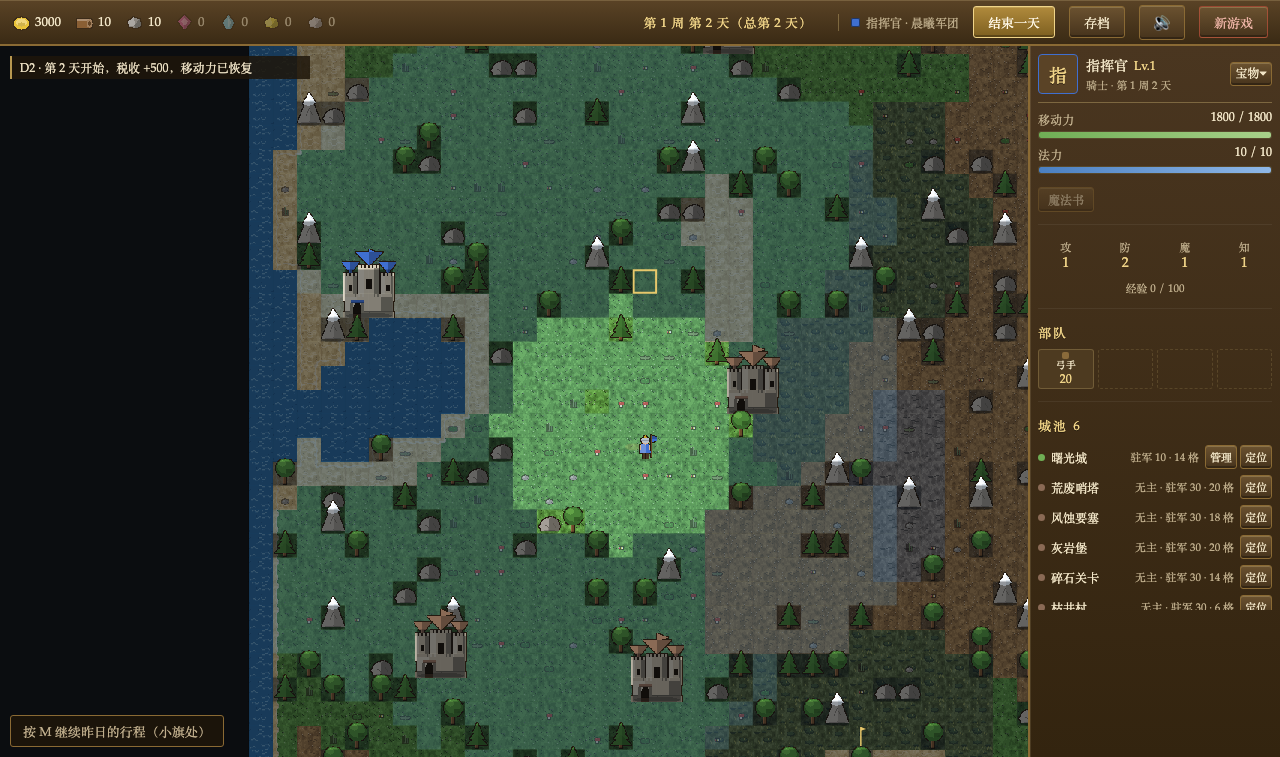
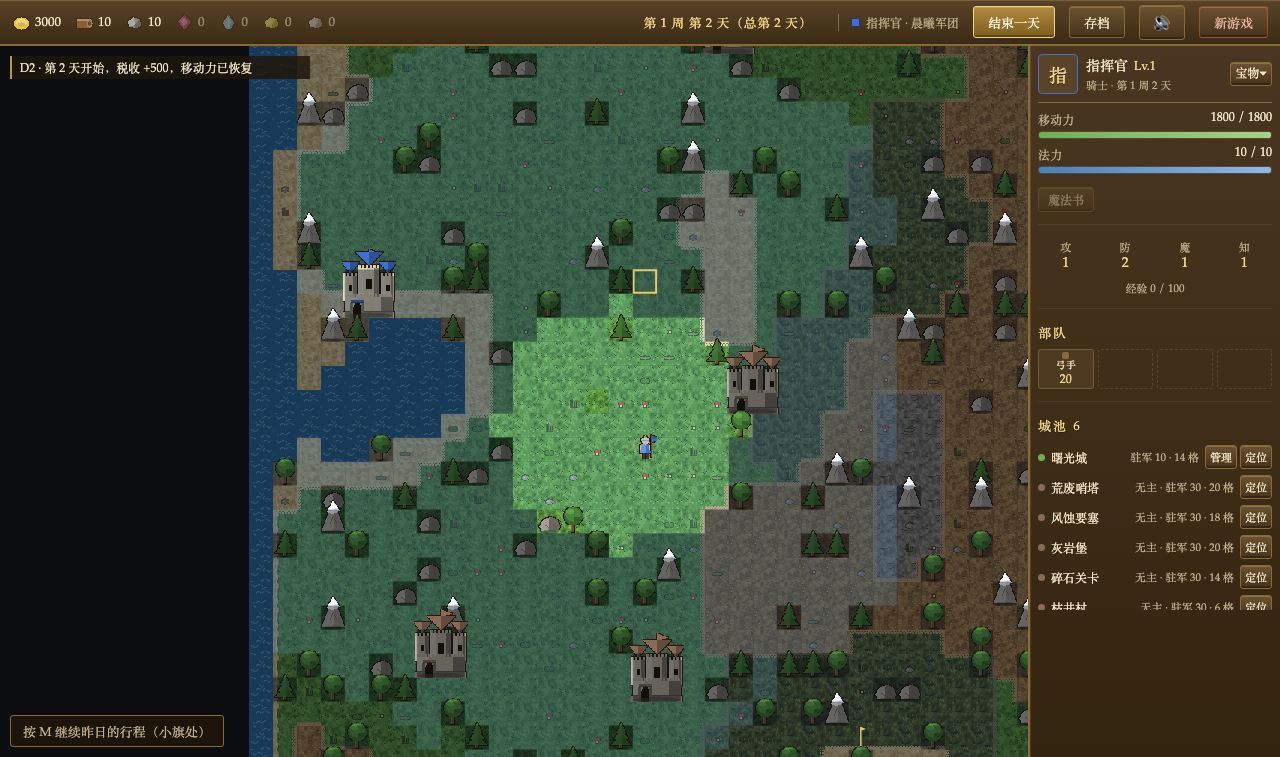
P1.2 水面碎光 + 地形边缘抖动过渡
两处地形观感升级，全在地形层/水面通道，业务零改动：

1) 地形边缘混合（terrainLayer 烘焙时画）
   不同地形相邻处原来是生硬的棋盘格直边。现在高优先级地形向低优先级
   "漫"一条 6px 深的过渡带：Bayer 4×4 矩阵控制密度（越深越稀），
   叠坐标哈希抖动打散纱窗感，单边绘制（只高漫低）避免两边互画。
   优先级：雪 > 沙 > 土 > 岩 > 沼 > 草，水面不参与（有岸线精灵）。
   性能：一条边的像素攒进同一个 Path2D 一次 fill，避免巨型图开局
   百万次 fillRect。

2) 水面氛围
   - 翻页动画 520ms → 260ms 一帧，跳帧感减半。
   - 碎光高光带：一条沿对角线扫过全图的正弦波，波峰经过的格子
     点亮 2px 高光（波连续移动，每帧只画可见水格的 3 个采样点）。
     视觉上就是碎光在水面上淌——SoC 水面氛围里性价比最高的一笔。

验证：tsc 干净、smoke 463/463、destaudit 10/10；同种子截图确认
沙地漫进草地、土路边缘软化、湖面碎光可见且全景不噪。

diff --git a/homm-web/src/render/terrainLayer.ts b/homm-web/src/render/terrainLayer.ts
@@ -1,8 +1,29 @@
-import type { GameMap } from '../core/types.js';
+import type { GameMap, TerrainKind } from '../core/types.js';
+import { TERRAIN } from '../core/data/terrains.js';
 import { idx } from '../core/map/grid.js';
 import { TILE } from './ortho.js';
 import { getAtlas } from './atlas.js';
 import { hash2 } from './pixel.js';
+
+/**
+ * 地形过渡优先级：序号高的地形会向序号低的"漫"过去。
+ * 沙滩漫进草地、雪原漫进一切——这是 HoMM/SoC 像素地图的经典处理，
+ * 没有它地形之间是生硬的棋盘格边界。水面不走这套（有专门的岸线精灵）。
+ */
+const TERRAIN_SPREAD: Record<TerrainKind, number> = {
+  grass: 0, swamp: 1, rock: 2, dirt: 3, sand: 4, snow: 5, water: -1,
+};
+
+/** 4×4 Bayer 抖动矩阵：把"颜色渐变"翻译成像素画能说的"疏密渐变"。 */
+const BAYER4 = [
+  0, 8, 2, 10,
+  12, 4, 14, 6,
+  3, 11, 1, 9,
+  15, 7, 13, 5,
+];
+
+/** 过渡带深度（像素）：从邻接边向低优先级地形内部渗入的距离。 */
+const FRINGE_DEPTH = 6;
 
 /**
  * 地形层：把"永远不会动"的部分一次性烘进一张整图大小的离屏画布。
@@ -90,6 +111,69 @@ export class TerrainLayer {
         const hd = hash2(x, y, 233);
         if (!hasObj && hd < 0.22) {
           blitAt(`deco_${Math.floor(hd * 100) % 6}`, x * TILE + 8, y * TILE + 10);
+        }
+      }
+    }
+
+    /* --- 地形边缘抖动过渡：高优先级地形向低优先级"漫"一条疏密渐变的边 --- */
+    this.bakeFringes(ctx, map);
+  }
+
+  /**
+   * 相邻两块不同地形之间画抖动过渡带。
+   *
+   * 单方向绘制：只有高优先级一侧的颜色漫进低优先级一侧，避免两边互画
+   * 打架。抖动用 Bayer 矩阵控制密度（越深越稀），再叠一层坐标哈希
+   * 抖动打散规则感——纯 Bayer 会有明显的"纱窗"纹理。
+   */
+  private bakeFringes(ctx: CanvasRenderingContext2D, map: GameMap): void {
+    const terrainAt = (nx: number, ny: number): TerrainKind | null =>
+      nx >= 0 && ny >= 0 && nx < map.width && ny < map.height
+        ? map.tiles[idx(map, nx, ny)].terrain
+        : null;
+
+    // 四个方向：dx/dy 是邻居方位，fringe 画在本格贴邻居的那条边上
+    const DIRS: { dx: number; dy: number; edge: 'n' | 's' | 'w' | 'e' }[] = [
+      { dx: 0, dy: -1, edge: 'n' },
+      { dx: 0, dy: 1, edge: 's' },
+      { dx: -1, dy: 0, edge: 'w' },
+      { dx: 1, dy: 0, edge: 'e' },
+    ];
+
+    for (let y = 0; y < map.height; y++) {
+      for (let x = 0; x < map.width; x++) {
+        const self = map.tiles[idx(map, x, y)].terrain;
+        if (self === 'water') continue;
+        const selfPrio = TERRAIN_SPREAD[self];
+        for (const { dx, dy, edge } of DIRS) {
+          const n = terrainAt(x + dx, y + dy);
+          if (!n || n === 'water' || n === self) continue;
+          if (TERRAIN_SPREAD[n] <= selfPrio) continue;
+
+          ctx.fillStyle = TERRAIN[n].top;
+          // 一条边的像素先攒进同一个 Path 再一次性 fill：
+          // 巨型图过渡像素上百万级，逐像素 fillRect 会让开局烘焙多花几百 ms
+          const path = new Path2D();
+          for (let d = 0; d < FRINGE_DEPTH; d++) {
+            // 越深越稀：阈值从 0 升到 1，Bayer 值小于阈值的像素不画
+            const threshold = d / FRINGE_DEPTH;
+            for (let p = 0; p < TILE; p++) {
+              let px: number;
+              let py: number;
+              switch (edge) {
+                case 'n': px = p; py = d; break;
+                case 's': px = p; py = TILE - 1 - d; break;
+                case 'w': px = d; py = p; break;
+                default: px = TILE - 1 - d; py = p; break;
+              }
+              const bayer = BAYER4[(py % 4) * 4 + (px % 4)] / 16;
+              // 坐标哈希打散规则纹理，让边缘"咬"出不规则小齿
+              const jitter = hash2(x * TILE + px, y * TILE + py, 997) * 0.3;
+              if (bayer + jitter < threshold) continue;
+              path.rect(x * TILE + px, y * TILE + py, 1, 1);
+            }
+          }
+          ctx.fill(path);
         }
       }
     }

diff --git a/homm-web/src/render/MapRenderer.ts b/homm-web/src/render/MapRenderer.ts
@@ -150,7 +150,9 @@ export class MapRenderer {
     const { state, player } = vm;
     const map = state.map;
     const now = performance.now();
-    const waterFrame = Math.floor(now / 520) % 4;
+    // 水面翻页动画：4 帧一循环。260ms/帧比原来的 520ms 顺滑，
+    // 再叠加下面连续移动的高光带，肉眼基本感觉不到跳帧
+    const waterFrame = Math.floor(now / 260) % 4;
 
     ctx.setTransform(this.dpr, 0, 0, this.dpr, 0, 0);
     ctx.imageSmoothingEnabled = false;
@@ -172,12 +174,29 @@ export class MapRenderer {
     ctx.drawImage(this.terrain.ensure(map), 0, 0);
 
     /* --- 水面：唯一会动的地形，按帧画（只占可见且已探索的格子） --- */
+    // 高光带：一条沿对角线扫过整张地图的正弦波，只有波峰经过的格子
+    // 才点亮 2px 高光。波是连续移动的，看起来就是"碎光在水面上淌"，
+    // 这是 SoC 水面氛围里性价比最高的一笔。每格采三个固定采样点。
+    const GLINT_SPOTS: readonly (readonly [number, number])[] = [[9, 12], [22, 20], [14, 26]];
     for (let y = y0; y <= y1; y++) {
       for (let x = x0; x <= x1; x++) {
         if (map.tiles[idx(map, x, y)].terrain !== 'water') continue;
         if (!isRevealed(state, player, x, y)) continue;
         const h = hash2(x, y, 17);
         this.blit(`g_water_${h < 0.5 ? 0 : 1}_${waterFrame}`, x, y);
+
+        for (const [ox, oy] of GLINT_SPOTS) {
+          const wx = x * TILE + ox;
+          const wy = y * TILE + oy;
+          const wave = Math.sin((wx + wy * 0.6) / 13 - now / 430);
+          if (wave > 0.9) {
+            ctx.fillStyle = 'rgba(196,228,246,0.55)';
+            ctx.fillRect(wx, wy, 2, 1);
+          } else if (wave > 0.82) {
+            ctx.fillStyle = 'rgba(150,200,230,0.3)';
+            ctx.fillRect(wx, wy, 1, 1);
+          }
+        }
       }
     }
 
